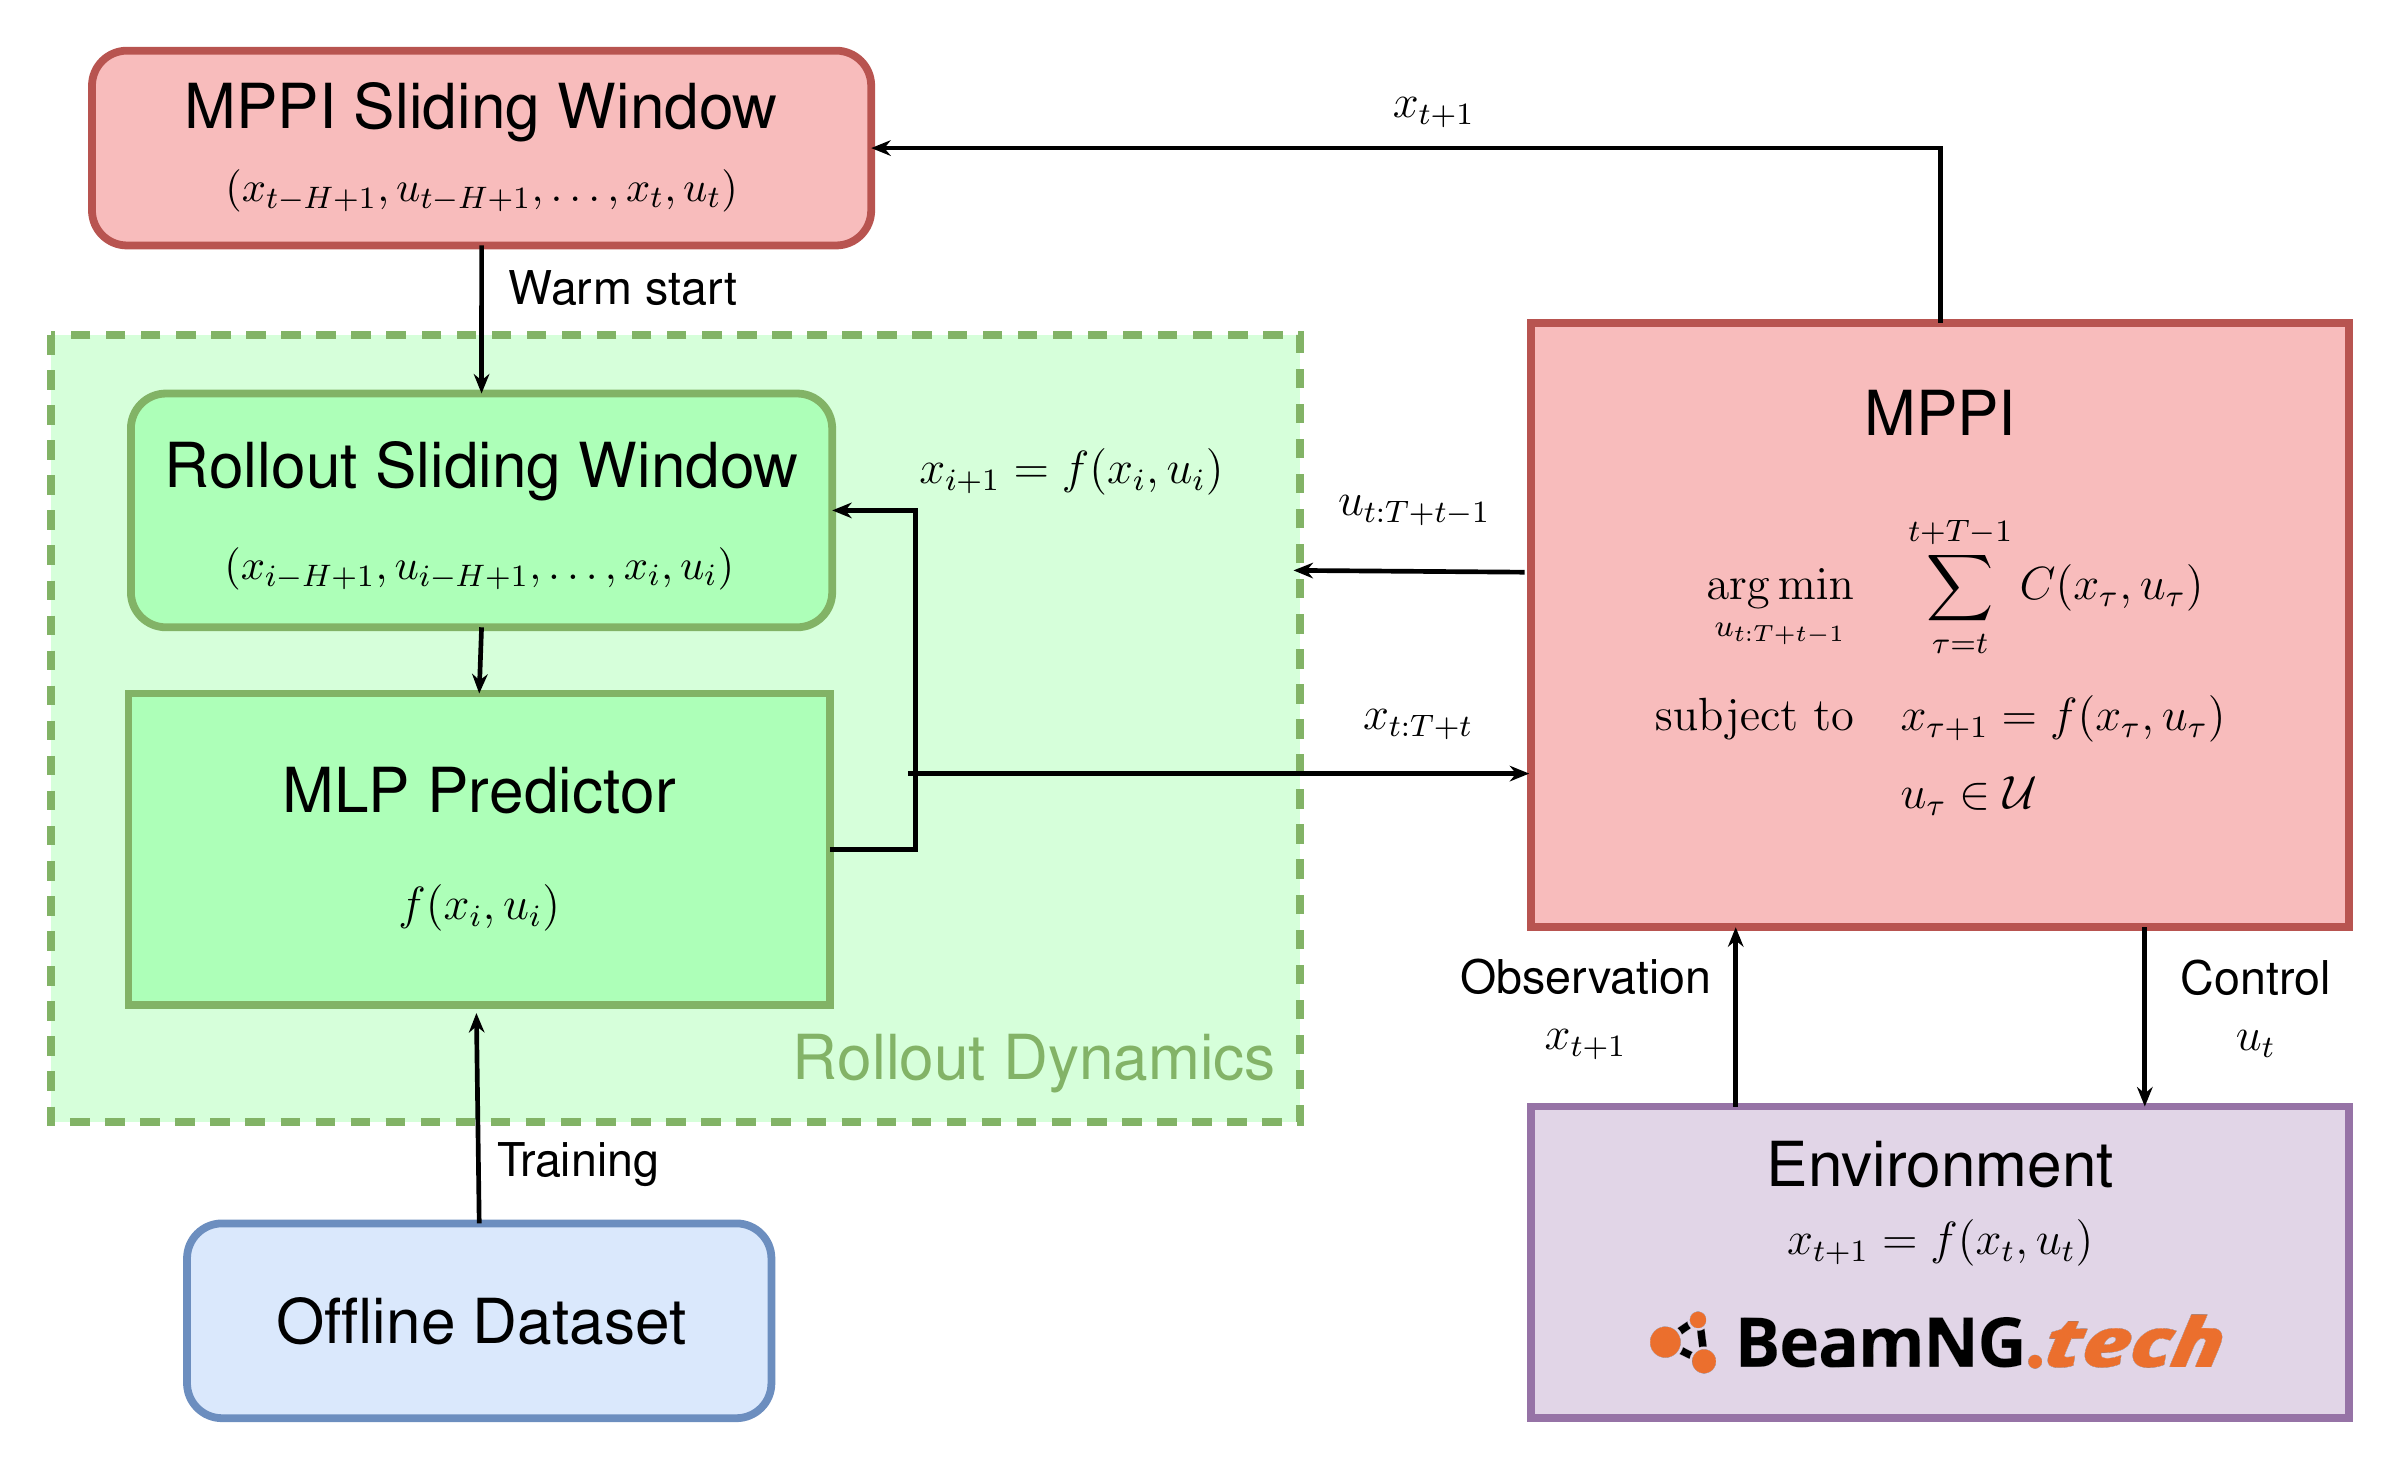
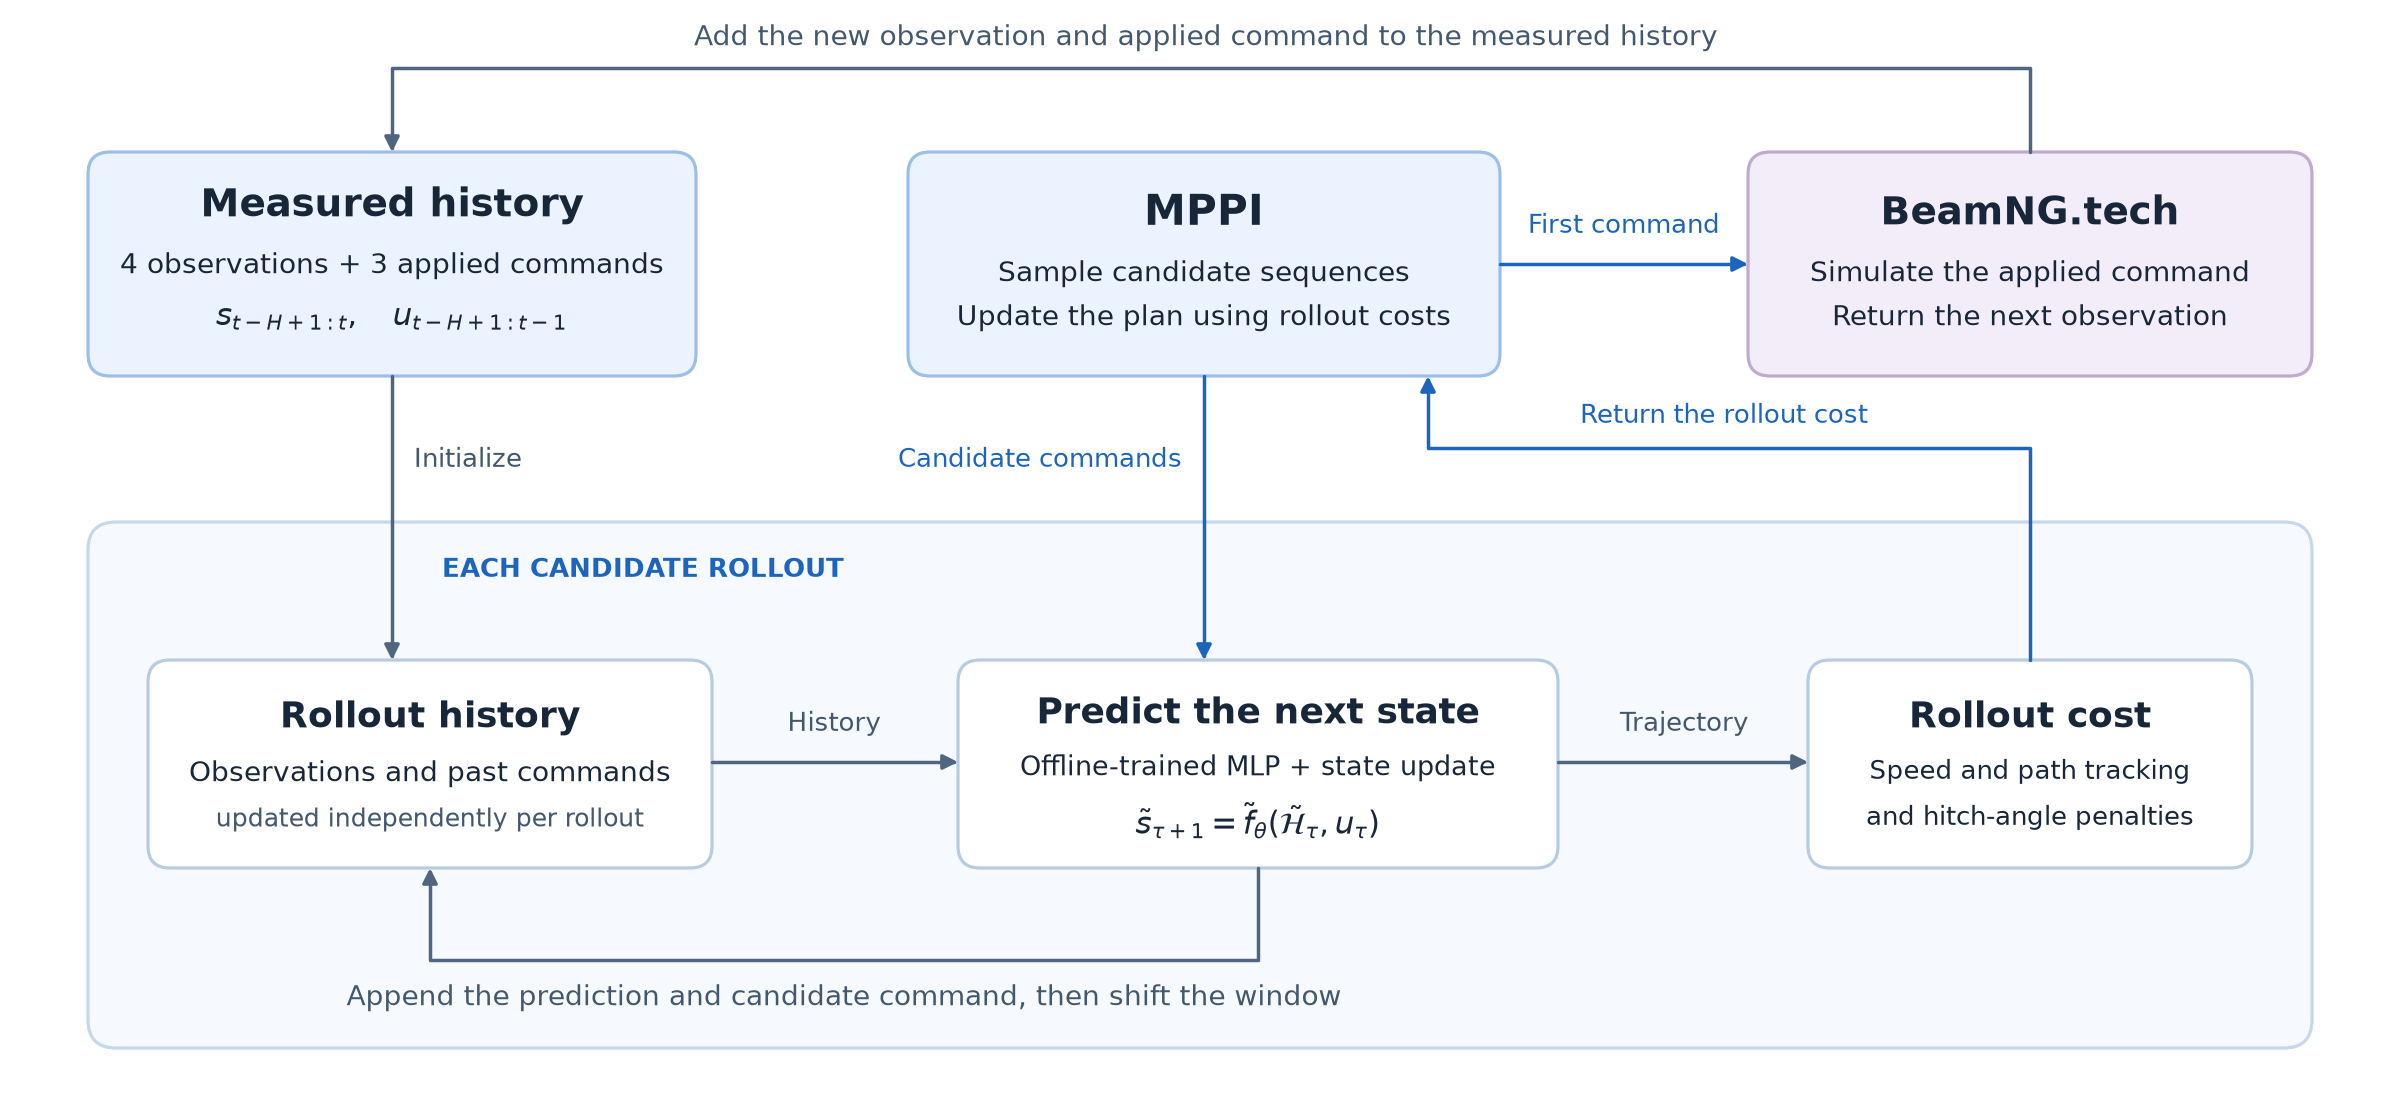
paper update

diff --git a/docs/index.html b/docs/index.html
@@ -14,7 +14,7 @@
           <h1 id="project-title">High-Speed Forward and Reverse Tractor-Trailer Driving with Learned Vehicle Dynamics</h1>
           <p class="focus-line">High-speed reverse driving &nbsp;·&nbsp; Hidden vehicle dynamics &nbsp;·&nbsp; Snow and uneven terrain</p>
           <div class="actions" aria-label="Project links">
-            <a class="button button-primary" href="https://anonymous.4open.science/w/drift-with-trailer-357C/" target="_blank" rel="noopener"><svg aria-hidden="true" viewBox="0 0 24 24"><path d="m8 9-3 3 3 3M16 9l3 3-3 3M14 5l-4 14"/></svg>Code</a>
+            <a class="button button-primary" href="https://anonymous.4open.science/r/drift-with-trailer-357C/" target="_blank" rel="noopener"><svg aria-hidden="true" viewBox="0 0 24 24"><path d="m8 9-3 3 3 3M16 9l3 3-3 3M14 5l-4 14"/></svg>Code</a>
           </div>
           <nav class="section-nav" aria-label="On this page">
             <a href="#method">Method</a>
@@ -115,21 +115,21 @@
           </div>
         </div>
         <figure class="wide-figure figure-card">
-          <a href="assets/controller-architecture.png" target="_blank" rel="noopener" aria-label="Open the controller architecture diagram at full resolution"><img src="assets/controller-architecture.png" width="2400" height="1465" loading="lazy" alt="Offline trajectories train an MLP predictor. A history of observed state-action pairs warm-starts the rollout sliding window, which feeds predictions to MPPI and receives feedback from BeamNG.tech." /></a>
-          <figcaption><strong>Controller architecture.</strong> An offline-trained MLP predicts dynamic-state and actuator rates. Each candidate rollout advances its own history; new observations update the measured history after each control step.</figcaption>
+          <a href="assets/controller-architecture.png" target="_blank" rel="noopener" aria-label="Open the controller architecture diagram at full resolution"><img src="assets/controller-architecture.png" width="2400" height="1100" loading="lazy" alt="MPPI initializes each rollout with four measured observations and three previously applied commands. The learned model predicts the next state given the rollout history and candidate command. MPPI uses rollout costs to update its plan and applies the first command in BeamNG.tech." /></a>
+          <figcaption><strong>Controller architecture.</strong> Each rollout starts with four measured observations and three previously applied commands. The predictor takes this history and a candidate command, then advances the rollout. The applied command and next observation update the measured history for replanning.</figcaption>
         </figure>
         <div class="method-grid">
           <article>
             <h3>Network</h3>
-            <p>An MLP with four hidden layers of 128 units takes four steps of state-action history.</p>
+            <p>The predictor is an MLP with four hidden layers of 128 units each.</p>
           </article>
           <article>
             <h3>Inputs and outputs</h3>
-            <p>Hitch angle, velocities, yaw rates, and commanded and observed actuator states predict accelerations and actuator rates. Position and orientation are propagated kinematically.</p>
+            <p>The model uses hitch angle, velocities, yaw rates, actuator responses, and commands to predict accelerations and actuator rates. Kinematics update position and heading.</p>
           </article>
           <article>
             <h3>Training data</h3>
-            <p>Offline trajectories vary speed and friction, with control noise, weaving, and added runs near handling limits.</p>
+            <p>Training runs used flat asphalt at five uniform friction levels. Forward runs included weaving and command noise. Additional reverse runs covered larger hitch angles.</p>
           </article>
         </div>
         <p class="method-note" id="dynamics">For comparison, we use a planar tractor–trailer model with Fiala tire forces.</p>
@@ -168,31 +168,27 @@
           <figcaption><strong>Reverse driving on a snowy hill.</strong> The analytic-prior controller jackknifes; the learned controller maintains control in this demonstration.</figcaption>
         </figure>
         <div class="result-highlights">
-          <article><h3>More reliable reverse driving</h3><p>Learned MPPI completes 62/72 reverse trials versus 41/72 for analytic MPPI, with 21 fewer stalls and one jackknife each.</p></article>
-          <article><h3>Better tracking</h3><p>Mean speeds are closer to the targets and RMS hitch angles are lower than analytic MPPI at every tested setpoint.</p></article>
+          <article><h3>More reverse completions</h3><p>Learned MPPI improves completion in seven of eight reverse configurations, with 21 fewer stalls across all reverse trials.</p></article>
+          <article><h3>Better speed and hitch tracking</h3><p>Both MPPI variants complete all 36 forward trials. Learned MPPI brings mean speed closer to target and lowers RMS hitch angle at every forward and reverse setpoint compared with analytic MPPI.</p></article>
           <article><h3>Unseen terrain</h3><p>Learned MPPI completes 16/18 reverse trials on Slope and 10/18 on Snow + Slope. Snowy slopes remain the hardest setting.</p></article>
         </div>
         <section class="result-detail" aria-labelledby="closed-loop-title">
-          <h3 id="closed-loop-title">Speed tracking and completed runs</h3>
-          <figure class="figure-card performance-figure reverse-performance">
-            <a href="assets/reverse-speed-completion.jpg" target="_blank" rel="noopener"><img src="assets/reverse-speed-completion.jpg" width="2048" height="2048" loading="lazy" alt="At a 50 km/h reverse target, learned MPPI completes 9, 9, 8, and 4 of 9 trials on Asphalt, Snow, Slope, and Snow plus slope, respectively, more than the other plotted controllers." /></a>
-            <figcaption><strong>Reverse target: 50 km/h.</strong> Panels (a–d): Asphalt, Snow, Slope, Snow + slope. Horizontal position shows mean speed as a percentage of the target; vertical position shows completed runs out of nine. Speed means include failed trials.</figcaption>
-          </figure>
+          <h3 id="closed-loop-title">Completed runs by target speed</h3>
           <figure class="figure-card performance-figure">
-            <a href="assets/completed-runs.jpg" target="_blank" rel="noopener"><img src="assets/completed-runs.jpg" width="2048" height="942" loading="lazy" alt="Completed runs out of 27 for Learned MPPI, Fiala-prior MPPI, LQR-PID, and IPOPT MPC: Asphalt 27,20,20,14; Snow 27,19,18,11; Slope 25,23,21,16; Snow plus slope 19,15,15,13." /></a>
-            <figcaption><strong>Completion across all speed targets.</strong> Each environment includes nine trials at −30, −50, and +80 km/h: 27 trials per controller.</figcaption>
+            <a href="assets/closed-loop-by-velocity.png" target="_blank" rel="noopener" aria-label="Open the closed-loop results chart at full resolution"><img src="assets/closed-loop-by-velocity.png" width="2260" height="1748" loading="lazy" alt="Completed runs out of nine for five controllers in four environments, shown separately for −30, −50, and +80 km/h. Learned MPPI completes 9, 9, 8, and 6 reverse trials at −30 km/h and 9, 9, 8, and 4 at −50 km/h, in Asphalt, Snow, Slope, and Snow + Slope order. Both MPPI variants complete all forward trials." /></a>
+            <figcaption>All five controllers are shown for each target. Each bar counts trials that reached 500 control steps out of nine for that controller, speed, and environment.</figcaption>
           </figure>
-          <p class="result-note">The plots show four of the five tested controllers. Both MPPI variants complete all 36 forward trials. LQR–PID has lower forward RMS hitch angles, but fewer completions on Asphalt and Snow.</p>
+          <p class="result-note">At the 50 km/h reverse target on Asphalt, learned MPPI averages 47.2 km/h and completes all nine trials. Analytic MPPI averages 22.7 km/h and completes six. Mean speeds include unsuccessful trials.</p>
         </section>
         <section class="result-detail" id="prediction" aria-labelledby="prediction-title">
           <h3 id="prediction-title">Dynamics prediction error</h3>
-          <p>Starting from the same measured state, three models replay the same recorded commands for five seconds: a fixed-friction analytic prior, a prior given the recorded contact-friction sequence, and our learned model with four steps of history.</p>
+          <p>For each five-second segment, all three models start from the same measured state and replay the same recorded commands without resets. We compare the learned model with two analytic variants, one with fixed friction and one given the recorded contact friction.</p>
           <figure class="figure-card rollout-figure">
             <a href="assets/prediction-snow-slope.png" target="_blank" rel="noopener" aria-label="Open the five-second prediction comparison at full resolution"><img src="assets/prediction-snow-slope.png" width="2600" height="1085" loading="lazy" alt="Five-second predictions on Snow + Slope: forward and reverse paths, wrapped hitch-angle error, and longitudinal velocity error. Learned dynamics stay closer to the measured forward motion and delay reverse hitch-error growth, but large reverse errors develop later." /></a>
             <figcaption><strong>Five-second predictions on Snow + Slope.</strong> Forward driving is shown above, reverse below. Dotted black paths are measured trajectories; colored paths are predictions. Blue shading indicates snow.</figcaption>
           </figure>
           <p>Across the eight selected direction–environment segments, learned dynamics achieve the lowest position RMSE in six and the lowest hitch-angle RMSE in seven. Recorded friction information does not consistently close the analytic model’s prediction gap.</p>
-          <p class="result-note">Large late reverse errors remain. This diagnostic horizon exceeds the main controller’s planning horizons of 4.0 seconds forward and 3.25 seconds reverse.</p>
+          <p class="result-note">On Snow + Slope, the learned model delays the growth of reverse hitch-angle error, which still becomes large late in the rollout. The five-second diagnostic exceeds the controller’s planning horizons of 4.0 seconds forward and 3.25 seconds reverse.</p>
         </section>
         <section class="result-detail history-detail" id="history" aria-labelledby="history-title">
           <h3 id="history-title">How much history?</h3>
@@ -209,7 +205,7 @@
               </tbody>
             </table>
           </div>
-          <p class="result-note">The eight-step predictor completes all six trials, with a forward mean speed of 64.0 km/h. This comparison uses a different segment and controller tuning from the main experiments.</p>
+          <p class="result-note">The four- and eight-step predictors complete all reverse trials. Only the eight-step predictor completes all forward trials, averaging 64.0 km/h against an 80 km/h target.</p>
         </section>
         <section class="reverse-demos" aria-labelledby="reverse-demos-title">
           <h3 id="reverse-demos-title">Reverse driving across all four environments</h3>

diff --git a/docs/styles.css b/docs/styles.css
@@ -24,7 +24,6 @@ main { overflow:hidden; }.hero { max-width:1130px; margin:0 auto; padding:55px 2
 .figure-card > a { display:block; }
 .trajectory-comparison { display:grid; grid-template-columns:repeat(2, minmax(0, 1fr)); gap:22px; max-width:850px; margin:30px auto 0; }
 .performance-figure { width:100%; max-width:1000px; margin:26px auto 0; }
-.reverse-performance { max-width:760px; }
 .performance-figure img { padding:14px; }
 @media (max-width:700px) { .trajectory-comparison { grid-template-columns:1fr; gap:16px; } .performance-figure img { padding:5px; } }
 .result-highlights { display:grid; grid-template-columns:repeat(3, minmax(0, 1fr)); gap:26px; margin-top:30px; }
